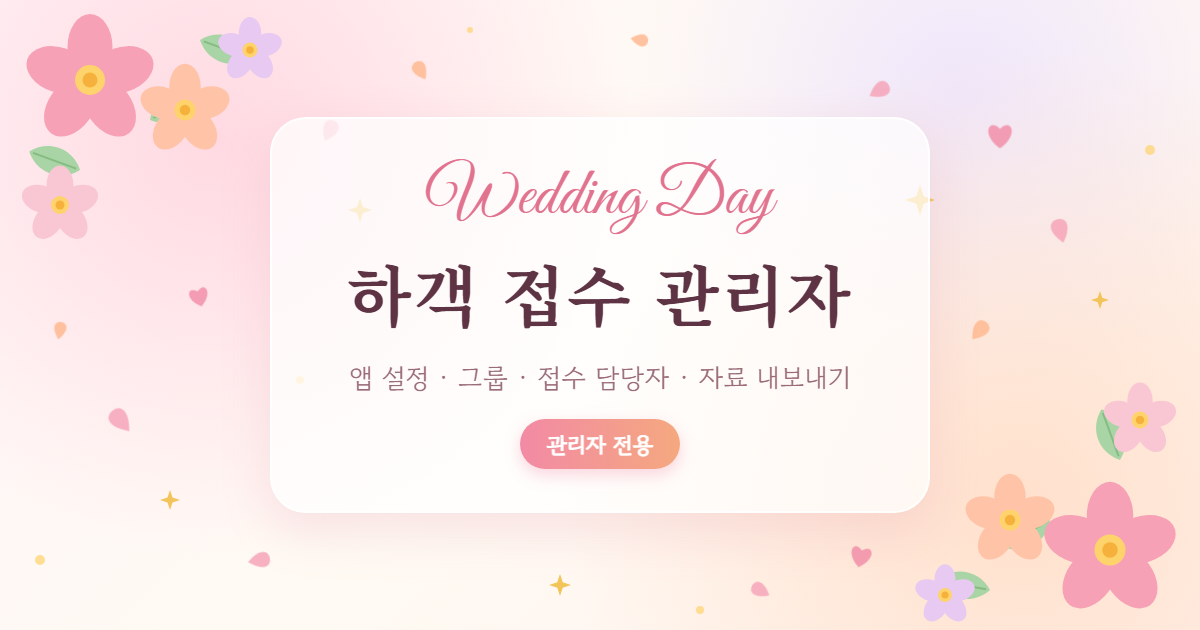
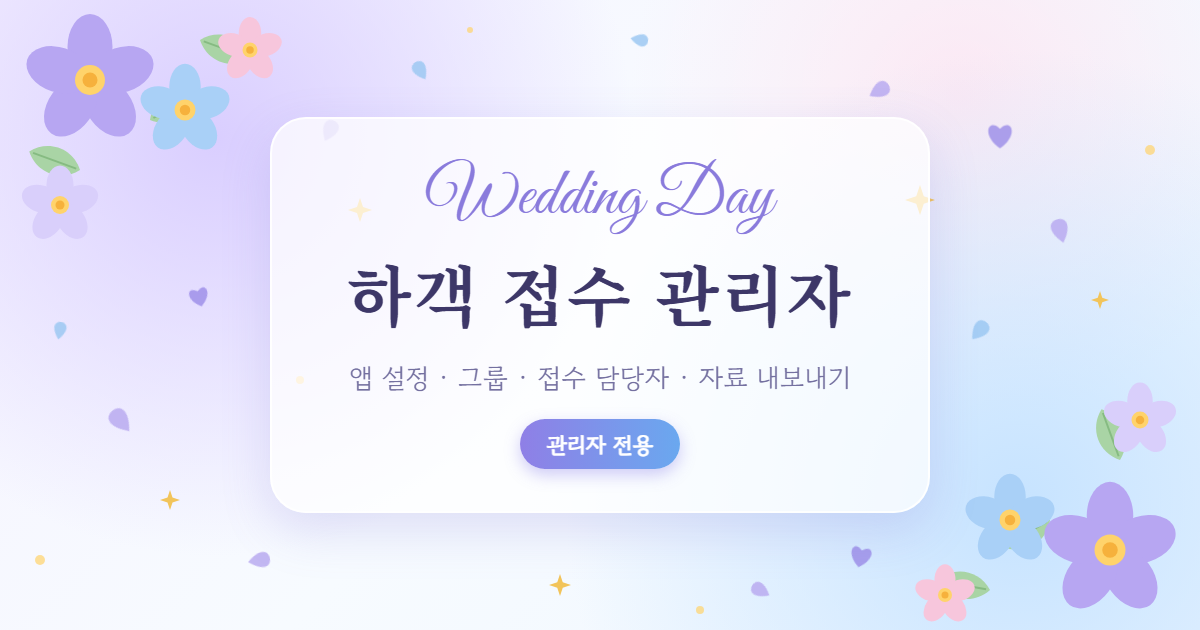
관리자 썸네일을 연보라·하늘빛으로 구분

diff --git a/wedding-og-source.html b/wedding-og-source.html
@@ -20,6 +20,18 @@
   .script { font-family: 'Great Vibes', cursive; font-size: 66px; line-height: 1; color: #e2738f; }
   h1 { font-size: 66px; font-weight: 700; letter-spacing: 2px; margin-top: 14px; color: #5e3343; }
   .sub { font-family: 'Gowun Dodum', sans-serif; font-size: 27px; color: #9a6b78; margin-top: 18px; }
+  /* 관리자용: 연보라·하늘빛으로 구분 */
+  body.admin { color: #3f3a6b;
+    background:
+      radial-gradient(circle at 18% 22%, rgba(216,204,255,.95) 0, rgba(216,204,255,0) 38%),
+      radial-gradient(circle at 85% 80%, rgba(196,226,255,.95) 0, rgba(196,226,255,0) 40%),
+      radial-gradient(circle at 80% 15%, rgba(255,220,236,.6) 0, rgba(255,220,236,0) 30%),
+      linear-gradient(135deg, #f6f3ff 0%, #f7fbff 50%, #eef6ff 100%); }
+  body.admin .card { box-shadow: 0 18px 50px rgba(120,110,210,.2); }
+  body.admin .script { color: #8a7bdc; }
+  body.admin h1 { color: #3d3768; }
+  body.admin .sub { color: #7470a0; }
+  body.admin .pill { background: linear-gradient(90deg, #8f7fe6, #6aa8ef); box-shadow: 0 6px 16px rgba(120,110,230,.35); }
   .pill { display: inline-block; margin-top: 22px; font-family: 'Gowun Dodum', sans-serif; font-size: 22px; font-weight: 700; color: #fff;
     background: linear-gradient(90deg, #f28aa5, #f5a87f); padding: 9px 26px; border-radius: 999px; box-shadow: 0 6px 16px rgba(242,138,165,.35); }
 </style>
@@ -101,6 +113,18 @@
 </div>
 <script>
   if (location.search.indexOf('admin') >= 0) {
+    document.body.classList.add('admin');
+    // 꽃·꽃잎·하트 색을 보라·하늘 계열로 바꿈
+    var swap = { '#f7a1b6': '#b7a6f2', '#ffc4a8': '#a9d0f7', '#f9c7d4': '#d9cffb', '#e7c9f2': '#f7c6dc',
+                 '#f6a5b9': '#b9aaf0', '#ffb990': '#9cc8f2', '#f28aa5': '#9a8be8' };
+    document.querySelectorAll('[style*="color"], g[fill]').forEach(function (el) {
+      var c = el.style.color && el.style.color.replace(/rgb\((\d+), (\d+), (\d+)\)/, function (m, r, g, b) {
+        return '#' + [r, g, b].map(function (x) { return (+x).toString(16).padStart(2, '0'); }).join('');
+      });
+      if (c && swap[c]) el.style.color = swap[c];
+      var f = el.getAttribute('fill');
+      if (f && swap[f]) el.setAttribute('fill', swap[f]);
+    });
     document.getElementById('title').textContent = '하객 접수 관리자';
     document.getElementById('desc').textContent = '앱 설정 · 그룹 · 접수 담당자 · 자료 내보내기';
     document.getElementById('tag').textContent = '관리자 전용';

diff --git a/manage.html b/manage.html
@@ -10,7 +10,7 @@
   <meta property="og:title" content="결혼식 하객 접수 관리자" />
   <meta property="og:description" content="관리자 전용 · 앱 설정, 그룹, 접수 담당자 계정, 자료 내보내기" />
   <meta property="og:type" content="website" />
-  <meta property="og:image" content="https://cgn210-alt.github.io/wedding-guest/wedding-admin-og.png?v=3" />
+  <meta property="og:image" content="https://cgn210-alt.github.io/wedding-guest/wedding-admin-og.png?v=4" />
   <meta property="og:image:width" content="1200" />
   <meta property="og:image:height" content="630" />
   <meta name="twitter:card" content="summary_large_image" />
